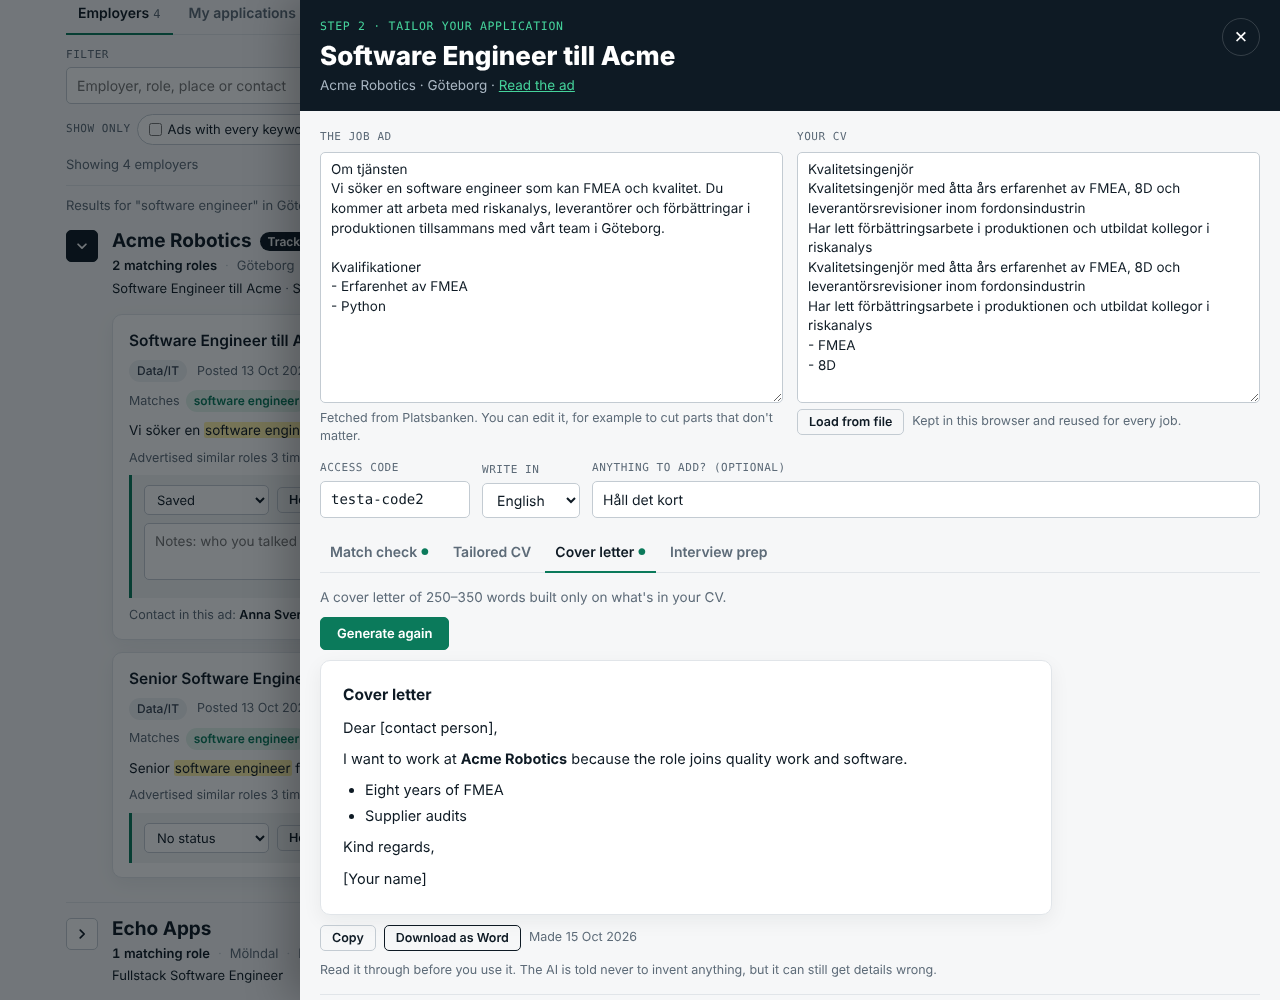
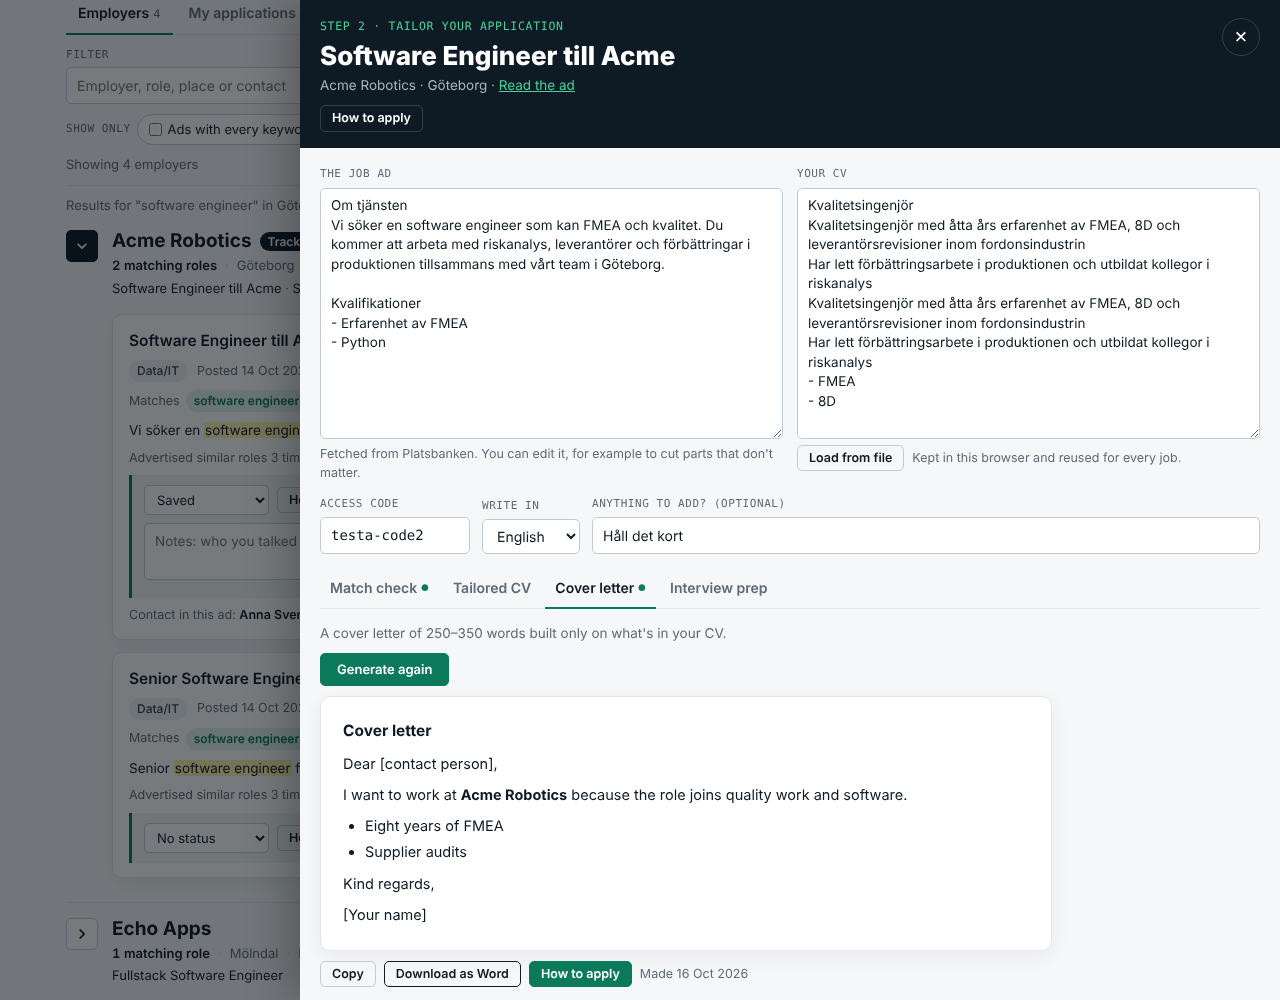
Apply straight from the tailoring panel
The panel now has a How to apply button in its header and next to the
finished text (Apply on <site> for ads from other job sites). After
clicking it, the panel asks whether the application was sent and can
mark the job as Applied.

Claude-Session: https://claude.ai/code/session_01KrHA8hLK2XLvfWbmDnqFuv

Changed region(s): [[0.2188, 0.093, 1.0, 0.465], [0.25, 0.403, 0.7188, 0.992], [0.875, 0.341, 0.9375, 0.372]]

diff --git a/Job Finder.html b/Job Finder.html
@@ -275,6 +275,10 @@ body:has(.tailor[open]) { overflow: hidden; }
 .tl-out ul, .tl-out ol { margin: 6px 0; padding-left: 22px; }
 .tl-out li { margin: 3px 0; }
 .tl-privacy { border-top: 1px solid var(--line); padding-top: 12px; }
+.tl-headapply { margin-top: 10px; }
+.tl-headapply .btn { color: var(--mast-ink); border-color: var(--mast-line); }
+.tl-ask { background: var(--accent-soft); border-radius: 8px; padding: 8px 12px; font-size: 13.5px; font-weight: 600; }
+.tl-ok { color: var(--accent-ink); font-weight: 600; }
 @media (max-width: 760px) {
   .tl-grid { grid-template-columns: minmax(0, 1fr); }
   .tl-box textarea { min-height: 150px; }
@@ -459,6 +463,9 @@ const I18N = {
   "tl.go": ["Generate", "Skapa"], "tl.again": ["Generate again", "Skapa igen"], "tl.busy": ["Writing…", "Skriver…"],
   "tl.wait": ["Usually 20–60 seconds · {s} s", "Brukar ta 20–60 sekunder · {s} s"],
   "tl.word": ["Download as Word", "Ladda ner som Word"], "tl.made": ["Made {date}", "Skapad {date}"],
+  "tl.applyon": ["Apply on {site}", "Sök på {site}"],
+  "tl.markq": ["Sent your application?", "Har du skickat ansökan?"], "tl.mark": ["Mark as applied", "Markera som sökt"],
+  "tl.marked": ["Marked as applied. You'll find it under My applications.", "Markerad som sökt. Du hittar den under Mina ansökningar."],
   "tl.check": ["Read it through before you use it. The AI is told never to invent anything, but it can still get details wrong.", "Läs igenom innan du använder det. AI:n är instruerad att aldrig hitta på något, men den kan ändå få detaljer fel."],
   "tl.privacy": ["When you press Generate, your CV, the ad and your wishes are sent to the Job Finder server and on to an AI model hosted by Scaleway in Paris. The server keeps no copy. Your CV and the answers are saved only in this browser.",
     "När du trycker på Skapa skickas ditt CV, annonsen och dina önskemål till Job Finders server och vidare till en AI-modell hos Scaleway i Paris. Servern sparar ingen kopia. Ditt CV och svaren sparas bara i den här webbläsaren."],
@@ -1567,9 +1574,9 @@ const guessLang = text => {
 };
 function jobFor(id) {
   const a = results?.ads.find(x => x.id === id);
-  if (a) { const c = companies.find(x => x.ads.includes(a)); return { id, title: a.title, employer: c ? coName(c) : shortName(a.employer), muni: a.muni, url: a.url || adUrl(a.id), src: a.src, source: a.source, snippet: a.snippet }; }
+  if (a) { const c = companies.find(x => x.ads.includes(a)); return { id, title: a.title, employer: c ? coName(c) : shortName(a.employer), muni: a.muni, url: a.url || adUrl(a.id), src: a.src, source: a.source, snippet: a.snippet, apply: a.apply || (a.applyEmail ? `mailto:${a.applyEmail}` : "") }; }
   const sn = apps[id]?.snap;
-  return sn ? { id, title: sn.title, employer: sn.company, muni: sn.muni, url: sn.url, src: id.startsWith("L:") ? "links" : "pb", snippet: "" } : null;
+  return sn ? { id, title: sn.title, employer: sn.company, muni: sn.muni, url: sn.url, src: id.startsWith("L:") ? "links" : "pb", snippet: "", apply: sn.apply || "" } : null;
 }
 async function loadFullAd(job) {
   const e = tlEntry(job.id);
@@ -1583,12 +1590,26 @@ async function loadFullAd(job) {
     return text;
   } catch { return job.snippet || ""; }
 }
+// The apply button: the employer's own page or email, or for other job sites the ad on that site
+function applyHtml(job, big) {
+  const href = job.apply || (job.src === "links" ? job.url : "");
+  if (!href) return "";
+  const label = job.apply ? t("howapply") : t("tl.applyon", { site: job.source || t("othersite") });
+  return `<a class="btn ${big ? "" : "ghost "}sm" href="${esc(href)}" target="_blank" rel="noopener" data-tl="apply">${esc(label)}</a>`;
+}
+function appliedHtml(id) {
+  const st = apps[id]?.status;
+  if (tl.marked) return `<p class="tl-hint tl-ok" role="status">${esc(t("tl.marked"))}</p>`;
+  if (!tl.askApplied || ["Applied", "Interview", "Offer"].includes(st)) return "";
+  return `<div class="row tl-ask"><span>${esc(t("tl.markq"))}</span><button class="btn sm" type="button" data-tl="mark">${esc(t("tl.mark"))}</button></div>`;
+}
 function tailorHtml() {
   const job = tl, e = tlEntry(job.id), task = tl.task, out = e.out[task];
   const code = store.get("jf-code", "");
   const outLang = e.lang || tl.lang || lang;
   return `<div class="tl-head">
-      <div><div class="tl-eyebrow">${esc(t("tl.eyebrow"))}</div><h2 id="tl-title">${esc(job.title)}</h2><div class="tl-sub">${esc([job.employer, job.muni].filter(Boolean).join(" · "))} · <a href="${esc(job.url)}" target="_blank" rel="noopener">${esc(t("readad"))}</a></div></div>
+      <div><div class="tl-eyebrow">${esc(t("tl.eyebrow"))}</div><h2 id="tl-title">${esc(job.title)}</h2><div class="tl-sub">${esc([job.employer, job.muni].filter(Boolean).join(" · "))} · <a href="${esc(job.url)}" target="_blank" rel="noopener">${esc(t("readad"))}</a></div>
+        ${applyHtml(job, false) ? `<div class="tl-headapply">${applyHtml(job, false)}</div>` : ""}</div>
       <button class="tl-close" type="button" data-tl="close" aria-label="${esc(t("tl.close"))}">×</button>
     </div>
     <div class="tl-body">
@@ -1612,9 +1633,10 @@ function tailorHtml() {
         <div class="row"><button class="btn" type="button" data-tl="go"${tl.busy ? " disabled" : ""}>${esc(tl.busy ? t("tl.busy") : out ? t("tl.again") : t("tl.go"))}</button><span class="tl-status" id="tl-status">${esc(tl.status || "")}</span></div>
         ${tl.error ? `<p class="tl-err" role="alert">${tl.error}</p>` : ""}
         ${out ? `<div class="tl-out" tabindex="-1">${mdHtml(out.text)}</div>
-          <div class="row"><button class="btn ghost sm" type="button" data-tl="copy">${esc(t("copy"))}</button><button class="btn ghost sm" type="button" data-tl="word">${esc(t("tl.word"))}</button>
+          <div class="row"><button class="btn ghost sm" type="button" data-tl="copy">${esc(t("copy"))}</button><button class="btn ghost sm" type="button" data-tl="word">${esc(t("tl.word"))}</button>${applyHtml(job, true)}
           <span class="tl-hint">${esc(t("tl.made", { date: fmtDate(localDay(new Date(out.at))) }))}</span></div>
-          <p class="tl-hint">${esc(t("tl.check"))}</p>` : ""}
+          ${appliedHtml(job.id)}
+          <p class="tl-hint">${esc(t("tl.check"))}</p>` : appliedHtml(job.id)}
       </section>
       <p class="tl-hint tl-privacy">${esc(t("tl.privacy"))}</p>
     </div>`;
@@ -1690,6 +1712,13 @@ function onTailorClick(e) {
   else if (k === "task") { tl.task = el.dataset.task; tl.error = ""; tlEntry(tl.id).lastTask = tl.task; saveTailor(); drawTailor(`[data-task="${tl.task}"]`); }
   else if (k === "go") generate();
   else if (k === "load") $("tl-file").click();
+  else if (k === "apply") { if (!["Applied", "Interview", "Offer"].includes(apps[tl.id]?.status)) { tl.askApplied = true; setTimeout(() => { if (tl) drawTailor('[data-tl="mark"]'); }, 0); } }
+  else if (k === "mark") {
+    setStatus(tl.id, "Applied"); tl.askApplied = false; tl.marked = true;
+    renderStats(); renderApps();
+    const art = document.querySelector(`#list article.role[data-ad="${CSS.escape(tl.id)}"]`)?.closest("article.co"); if (art) rerenderCompany(art.dataset.id);
+    drawTailor(".tl-close");
+  }
   else if (k === "copy") { const o = tlEntry(tl.id).out[tl.task]; if (o) copyText(plainText(o.text), el); }
   else if (k === "word") {
     const o = tlEntry(tl.id).out[tl.task]; if (!o) return;

diff --git a/index.html b/index.html
@@ -275,6 +275,10 @@ body:has(.tailor[open]) { overflow: hidden; }
 .tl-out ul, .tl-out ol { margin: 6px 0; padding-left: 22px; }
 .tl-out li { margin: 3px 0; }
 .tl-privacy { border-top: 1px solid var(--line); padding-top: 12px; }
+.tl-headapply { margin-top: 10px; }
+.tl-headapply .btn { color: var(--mast-ink); border-color: var(--mast-line); }
+.tl-ask { background: var(--accent-soft); border-radius: 8px; padding: 8px 12px; font-size: 13.5px; font-weight: 600; }
+.tl-ok { color: var(--accent-ink); font-weight: 600; }
 @media (max-width: 760px) {
   .tl-grid { grid-template-columns: minmax(0, 1fr); }
   .tl-box textarea { min-height: 150px; }
@@ -459,6 +463,9 @@ const I18N = {
   "tl.go": ["Generate", "Skapa"], "tl.again": ["Generate again", "Skapa igen"], "tl.busy": ["Writing…", "Skriver…"],
   "tl.wait": ["Usually 20–60 seconds · {s} s", "Brukar ta 20–60 sekunder · {s} s"],
   "tl.word": ["Download as Word", "Ladda ner som Word"], "tl.made": ["Made {date}", "Skapad {date}"],
+  "tl.applyon": ["Apply on {site}", "Sök på {site}"],
+  "tl.markq": ["Sent your application?", "Har du skickat ansökan?"], "tl.mark": ["Mark as applied", "Markera som sökt"],
+  "tl.marked": ["Marked as applied. You'll find it under My applications.", "Markerad som sökt. Du hittar den under Mina ansökningar."],
   "tl.check": ["Read it through before you use it. The AI is told never to invent anything, but it can still get details wrong.", "Läs igenom innan du använder det. AI:n är instruerad att aldrig hitta på något, men den kan ändå få detaljer fel."],
   "tl.privacy": ["When you press Generate, your CV, the ad and your wishes are sent to the Job Finder server and on to an AI model hosted by Scaleway in Paris. The server keeps no copy. Your CV and the answers are saved only in this browser.",
     "När du trycker på Skapa skickas ditt CV, annonsen och dina önskemål till Job Finders server och vidare till en AI-modell hos Scaleway i Paris. Servern sparar ingen kopia. Ditt CV och svaren sparas bara i den här webbläsaren."],
@@ -1567,9 +1574,9 @@ const guessLang = text => {
 };
 function jobFor(id) {
   const a = results?.ads.find(x => x.id === id);
-  if (a) { const c = companies.find(x => x.ads.includes(a)); return { id, title: a.title, employer: c ? coName(c) : shortName(a.employer), muni: a.muni, url: a.url || adUrl(a.id), src: a.src, source: a.source, snippet: a.snippet }; }
+  if (a) { const c = companies.find(x => x.ads.includes(a)); return { id, title: a.title, employer: c ? coName(c) : shortName(a.employer), muni: a.muni, url: a.url || adUrl(a.id), src: a.src, source: a.source, snippet: a.snippet, apply: a.apply || (a.applyEmail ? `mailto:${a.applyEmail}` : "") }; }
   const sn = apps[id]?.snap;
-  return sn ? { id, title: sn.title, employer: sn.company, muni: sn.muni, url: sn.url, src: id.startsWith("L:") ? "links" : "pb", snippet: "" } : null;
+  return sn ? { id, title: sn.title, employer: sn.company, muni: sn.muni, url: sn.url, src: id.startsWith("L:") ? "links" : "pb", snippet: "", apply: sn.apply || "" } : null;
 }
 async function loadFullAd(job) {
   const e = tlEntry(job.id);
@@ -1583,12 +1590,26 @@ async function loadFullAd(job) {
     return text;
   } catch { return job.snippet || ""; }
 }
+// The apply button: the employer's own page or email, or for other job sites the ad on that site
+function applyHtml(job, big) {
+  const href = job.apply || (job.src === "links" ? job.url : "");
+  if (!href) return "";
+  const label = job.apply ? t("howapply") : t("tl.applyon", { site: job.source || t("othersite") });
+  return `<a class="btn ${big ? "" : "ghost "}sm" href="${esc(href)}" target="_blank" rel="noopener" data-tl="apply">${esc(label)}</a>`;
+}
+function appliedHtml(id) {
+  const st = apps[id]?.status;
+  if (tl.marked) return `<p class="tl-hint tl-ok" role="status">${esc(t("tl.marked"))}</p>`;
+  if (!tl.askApplied || ["Applied", "Interview", "Offer"].includes(st)) return "";
+  return `<div class="row tl-ask"><span>${esc(t("tl.markq"))}</span><button class="btn sm" type="button" data-tl="mark">${esc(t("tl.mark"))}</button></div>`;
+}
 function tailorHtml() {
   const job = tl, e = tlEntry(job.id), task = tl.task, out = e.out[task];
   const code = store.get("jf-code", "");
   const outLang = e.lang || tl.lang || lang;
   return `<div class="tl-head">
-      <div><div class="tl-eyebrow">${esc(t("tl.eyebrow"))}</div><h2 id="tl-title">${esc(job.title)}</h2><div class="tl-sub">${esc([job.employer, job.muni].filter(Boolean).join(" · "))} · <a href="${esc(job.url)}" target="_blank" rel="noopener">${esc(t("readad"))}</a></div></div>
+      <div><div class="tl-eyebrow">${esc(t("tl.eyebrow"))}</div><h2 id="tl-title">${esc(job.title)}</h2><div class="tl-sub">${esc([job.employer, job.muni].filter(Boolean).join(" · "))} · <a href="${esc(job.url)}" target="_blank" rel="noopener">${esc(t("readad"))}</a></div>
+        ${applyHtml(job, false) ? `<div class="tl-headapply">${applyHtml(job, false)}</div>` : ""}</div>
       <button class="tl-close" type="button" data-tl="close" aria-label="${esc(t("tl.close"))}">×</button>
     </div>
     <div class="tl-body">
@@ -1612,9 +1633,10 @@ function tailorHtml() {
         <div class="row"><button class="btn" type="button" data-tl="go"${tl.busy ? " disabled" : ""}>${esc(tl.busy ? t("tl.busy") : out ? t("tl.again") : t("tl.go"))}</button><span class="tl-status" id="tl-status">${esc(tl.status || "")}</span></div>
         ${tl.error ? `<p class="tl-err" role="alert">${tl.error}</p>` : ""}
         ${out ? `<div class="tl-out" tabindex="-1">${mdHtml(out.text)}</div>
-          <div class="row"><button class="btn ghost sm" type="button" data-tl="copy">${esc(t("copy"))}</button><button class="btn ghost sm" type="button" data-tl="word">${esc(t("tl.word"))}</button>
+          <div class="row"><button class="btn ghost sm" type="button" data-tl="copy">${esc(t("copy"))}</button><button class="btn ghost sm" type="button" data-tl="word">${esc(t("tl.word"))}</button>${applyHtml(job, true)}
           <span class="tl-hint">${esc(t("tl.made", { date: fmtDate(localDay(new Date(out.at))) }))}</span></div>
-          <p class="tl-hint">${esc(t("tl.check"))}</p>` : ""}
+          ${appliedHtml(job.id)}
+          <p class="tl-hint">${esc(t("tl.check"))}</p>` : appliedHtml(job.id)}
       </section>
       <p class="tl-hint tl-privacy">${esc(t("tl.privacy"))}</p>
     </div>`;
@@ -1690,6 +1712,13 @@ function onTailorClick(e) {
   else if (k === "task") { tl.task = el.dataset.task; tl.error = ""; tlEntry(tl.id).lastTask = tl.task; saveTailor(); drawTailor(`[data-task="${tl.task}"]`); }
   else if (k === "go") generate();
   else if (k === "load") $("tl-file").click();
+  else if (k === "apply") { if (!["Applied", "Interview", "Offer"].includes(apps[tl.id]?.status)) { tl.askApplied = true; setTimeout(() => { if (tl) drawTailor('[data-tl="mark"]'); }, 0); } }
+  else if (k === "mark") {
+    setStatus(tl.id, "Applied"); tl.askApplied = false; tl.marked = true;
+    renderStats(); renderApps();
+    const art = document.querySelector(`#list article.role[data-ad="${CSS.escape(tl.id)}"]`)?.closest("article.co"); if (art) rerenderCompany(art.dataset.id);
+    drawTailor(".tl-close");
+  }
   else if (k === "copy") { const o = tlEntry(tl.id).out[tl.task]; if (o) copyText(plainText(o.text), el); }
   else if (k === "word") {
     const o = tlEntry(tl.id).out[tl.task]; if (!o) return;

diff --git a/src/tailor.js b/src/tailor.js
@@ -120,9 +120,9 @@ const guessLang = text => {
 };
 function jobFor(id) {
   const a = results?.ads.find(x => x.id === id);
-  if (a) { const c = companies.find(x => x.ads.includes(a)); return { id, title: a.title, employer: c ? coName(c) : shortName(a.employer), muni: a.muni, url: a.url || adUrl(a.id), src: a.src, source: a.source, snippet: a.snippet }; }
+  if (a) { const c = companies.find(x => x.ads.includes(a)); return { id, title: a.title, employer: c ? coName(c) : shortName(a.employer), muni: a.muni, url: a.url || adUrl(a.id), src: a.src, source: a.source, snippet: a.snippet, apply: a.apply || (a.applyEmail ? `mailto:${a.applyEmail}` : "") }; }
   const sn = apps[id]?.snap;
-  return sn ? { id, title: sn.title, employer: sn.company, muni: sn.muni, url: sn.url, src: id.startsWith("L:") ? "links" : "pb", snippet: "" } : null;
+  return sn ? { id, title: sn.title, employer: sn.company, muni: sn.muni, url: sn.url, src: id.startsWith("L:") ? "links" : "pb", snippet: "", apply: sn.apply || "" } : null;
 }
 async function loadFullAd(job) {
   const e = tlEntry(job.id);
@@ -136,12 +136,26 @@ async function loadFullAd(job) {
     return text;
   } catch { return job.snippet || ""; }
 }
+// The apply button: the employer's own page or email, or for other job sites the ad on that site
+function applyHtml(job, big) {
+  const href = job.apply || (job.src === "links" ? job.url : "");
+  if (!href) return "";
+  const label = job.apply ? t("howapply") : t("tl.applyon", { site: job.source || t("othersite") });
+  return `<a class="btn ${big ? "" : "ghost "}sm" href="${esc(href)}" target="_blank" rel="noopener" data-tl="apply">${esc(label)}</a>`;
+}
+function appliedHtml(id) {
+  const st = apps[id]?.status;
+  if (tl.marked) return `<p class="tl-hint tl-ok" role="status">${esc(t("tl.marked"))}</p>`;
+  if (!tl.askApplied || ["Applied", "Interview", "Offer"].includes(st)) return "";
+  return `<div class="row tl-ask"><span>${esc(t("tl.markq"))}</span><button class="btn sm" type="button" data-tl="mark">${esc(t("tl.mark"))}</button></div>`;
+}
 function tailorHtml() {
   const job = tl, e = tlEntry(job.id), task = tl.task, out = e.out[task];
   const code = store.get("jf-code", "");
   const outLang = e.lang || tl.lang || lang;
   return `<div class="tl-head">
-      <div><div class="tl-eyebrow">${esc(t("tl.eyebrow"))}</div><h2 id="tl-title">${esc(job.title)}</h2><div class="tl-sub">${esc([job.employer, job.muni].filter(Boolean).join(" · "))} · <a href="${esc(job.url)}" target="_blank" rel="noopener">${esc(t("readad"))}</a></div></div>
+      <div><div class="tl-eyebrow">${esc(t("tl.eyebrow"))}</div><h2 id="tl-title">${esc(job.title)}</h2><div class="tl-sub">${esc([job.employer, job.muni].filter(Boolean).join(" · "))} · <a href="${esc(job.url)}" target="_blank" rel="noopener">${esc(t("readad"))}</a></div>
+        ${applyHtml(job, false) ? `<div class="tl-headapply">${applyHtml(job, false)}</div>` : ""}</div>
       <button class="tl-close" type="button" data-tl="close" aria-label="${esc(t("tl.close"))}">×</button>
     </div>
     <div class="tl-body">
@@ -165,9 +179,10 @@ function tailorHtml() {
         <div class="row"><button class="btn" type="button" data-tl="go"${tl.busy ? " disabled" : ""}>${esc(tl.busy ? t("tl.busy") : out ? t("tl.again") : t("tl.go"))}</button><span class="tl-status" id="tl-status">${esc(tl.status || "")}</span></div>
         ${tl.error ? `<p class="tl-err" role="alert">${tl.error}</p>` : ""}
         ${out ? `<div class="tl-out" tabindex="-1">${mdHtml(out.text)}</div>
-          <div class="row"><button class="btn ghost sm" type="button" data-tl="copy">${esc(t("copy"))}</button><button class="btn ghost sm" type="button" data-tl="word">${esc(t("tl.word"))}</button>
+          <div class="row"><button class="btn ghost sm" type="button" data-tl="copy">${esc(t("copy"))}</button><button class="btn ghost sm" type="button" data-tl="word">${esc(t("tl.word"))}</button>${applyHtml(job, true)}
           <span class="tl-hint">${esc(t("tl.made", { date: fmtDate(localDay(new Date(out.at))) }))}</span></div>
-          <p class="tl-hint">${esc(t("tl.check"))}</p>` : ""}
+          ${appliedHtml(job.id)}
+          <p class="tl-hint">${esc(t("tl.check"))}</p>` : appliedHtml(job.id)}
       </section>
       <p class="tl-hint tl-privacy">${esc(t("tl.privacy"))}</p>
     </div>`;
@@ -243,6 +258,13 @@ function onTailorClick(e) {
   else if (k === "task") { tl.task = el.dataset.task; tl.error = ""; tlEntry(tl.id).lastTask = tl.task; saveTailor(); drawTailor(`[data-task="${tl.task}"]`); }
   else if (k === "go") generate();
   else if (k === "load") $("tl-file").click();
+  else if (k === "apply") { if (!["Applied", "Interview", "Offer"].includes(apps[tl.id]?.status)) { tl.askApplied = true; setTimeout(() => { if (tl) drawTailor('[data-tl="mark"]'); }, 0); } }
+  else if (k === "mark") {
+    setStatus(tl.id, "Applied"); tl.askApplied = false; tl.marked = true;
+    renderStats(); renderApps();
+    const art = document.querySelector(`#list article.role[data-ad="${CSS.escape(tl.id)}"]`)?.closest("article.co"); if (art) rerenderCompany(art.dataset.id);
+    drawTailor(".tl-close");
+  }
   else if (k === "copy") { const o = tlEntry(tl.id).out[tl.task]; if (o) copyText(plainText(o.text), el); }
   else if (k === "word") {
     const o = tlEntry(tl.id).out[tl.task]; if (!o) return;

diff --git a/src/app.js b/src/app.js
@@ -71,6 +71,9 @@ const I18N = {
   "tl.go": ["Generate", "Skapa"], "tl.again": ["Generate again", "Skapa igen"], "tl.busy": ["Writing…", "Skriver…"],
   "tl.wait": ["Usually 20–60 seconds · {s} s", "Brukar ta 20–60 sekunder · {s} s"],
   "tl.word": ["Download as Word", "Ladda ner som Word"], "tl.made": ["Made {date}", "Skapad {date}"],
+  "tl.applyon": ["Apply on {site}", "Sök på {site}"],
+  "tl.markq": ["Sent your application?", "Har du skickat ansökan?"], "tl.mark": ["Mark as applied", "Markera som sökt"],
+  "tl.marked": ["Marked as applied. You'll find it under My applications.", "Markerad som sökt. Du hittar den under Mina ansökningar."],
   "tl.check": ["Read it through before you use it. The AI is told never to invent anything, but it can still get details wrong.", "Läs igenom innan du använder det. AI:n är instruerad att aldrig hitta på något, men den kan ändå få detaljer fel."],
   "tl.privacy": ["When you press Generate, your CV, the ad and your wishes are sent to the Job Finder server and on to an AI model hosted by Scaleway in Paris. The server keeps no copy. Your CV and the answers are saved only in this browser.",
     "När du trycker på Skapa skickas ditt CV, annonsen och dina önskemål till Job Finders server och vidare till en AI-modell hos Scaleway i Paris. Servern sparar ingen kopia. Ditt CV och svaren sparas bara i den här webbläsaren."],

diff --git a/src/shell.html b/src/shell.html
@@ -268,6 +268,10 @@ body:has(.tailor[open]) { overflow: hidden; }
 .tl-out ul, .tl-out ol { margin: 6px 0; padding-left: 22px; }
 .tl-out li { margin: 3px 0; }
 .tl-privacy { border-top: 1px solid var(--line); padding-top: 12px; }
+.tl-headapply { margin-top: 10px; }
+.tl-headapply .btn { color: var(--mast-ink); border-color: var(--mast-line); }
+.tl-ask { background: var(--accent-soft); border-radius: 8px; padding: 8px 12px; font-size: 13.5px; font-weight: 600; }
+.tl-ok { color: var(--accent-ink); font-weight: 600; }
 @media (max-width: 760px) {
   .tl-grid { grid-template-columns: minmax(0, 1fr); }
   .tl-box textarea { min-height: 150px; }

diff --git a/tests/test_tailor.py b/tests/test_tailor.py
@@ -133,6 +133,18 @@ async def main():
             check('LibreOffice can open the Word file', (tmp / (word.stem + '.pdf')).exists(), conv.stderr[-300:])
             await pg.screenshot(path=str(SHOTS / 'tailor-en.png'))
 
+            # Applying from the panel
+            check('apply button in the panel header', await dlg.locator('.tl-head [data-tl=apply]').get_attribute('href') == 'https://apply.example/101')
+            async with ctx.expect_page() as newpage: await dlg.locator('.tl-result [data-tl=apply]').click()
+            await (await newpage.value).close()
+            await pg.wait_for_selector('#tailor [data-tl=mark]')
+            check('asks whether the application was sent', 'Sent your application?' in await dlg.locator('.tl-ask').inner_text())
+            await dlg.locator('[data-tl=mark]').click()
+            check('mark as applied from the panel', 'Marked as applied' in await dlg.inner_text() and await acme.locator('article.role[data-ad="101"] select[data-role=status]').input_value() == 'Applied')
+            async with ctx.expect_page() as newpage: await dlg.locator('.tl-result [data-tl=apply]').click()
+            await (await newpage.value).close(); await pg.wait_for_timeout(100)
+            check('no question once applied', await dlg.locator('[data-tl=mark]').count() == 0)
+
             # Errors from the AI service and the network
             post(FAKE + '/mode', {'status': 429})
             await dlg.locator('[data-tl=go]').click(); await pg.wait_for_selector('#tailor .tl-err', timeout=10000)
@@ -157,6 +169,7 @@ async def main():
             echo = pg.locator('article.co', has_text='Echo Apps'); await echo.locator('button.exp').click()
             await echo.locator('[data-tailor]').click(); await pg.wait_for_timeout(200)
             hint, adv = await dlg.locator('.tl-hint').first.inner_text(), await pg.input_value('#tl-ad')
+            check('other-site ad: apply on that site', await dlg.locator('.tl-head [data-tl=apply]').inner_text() == 'Apply on The Hub')
             check('other-site ad: asks for the full text', 'This ad is on The Hub' in hint and adv == 'Join us as a software engineer.', (hint, adv))
             await pg.keyboard.press('Escape')
 
